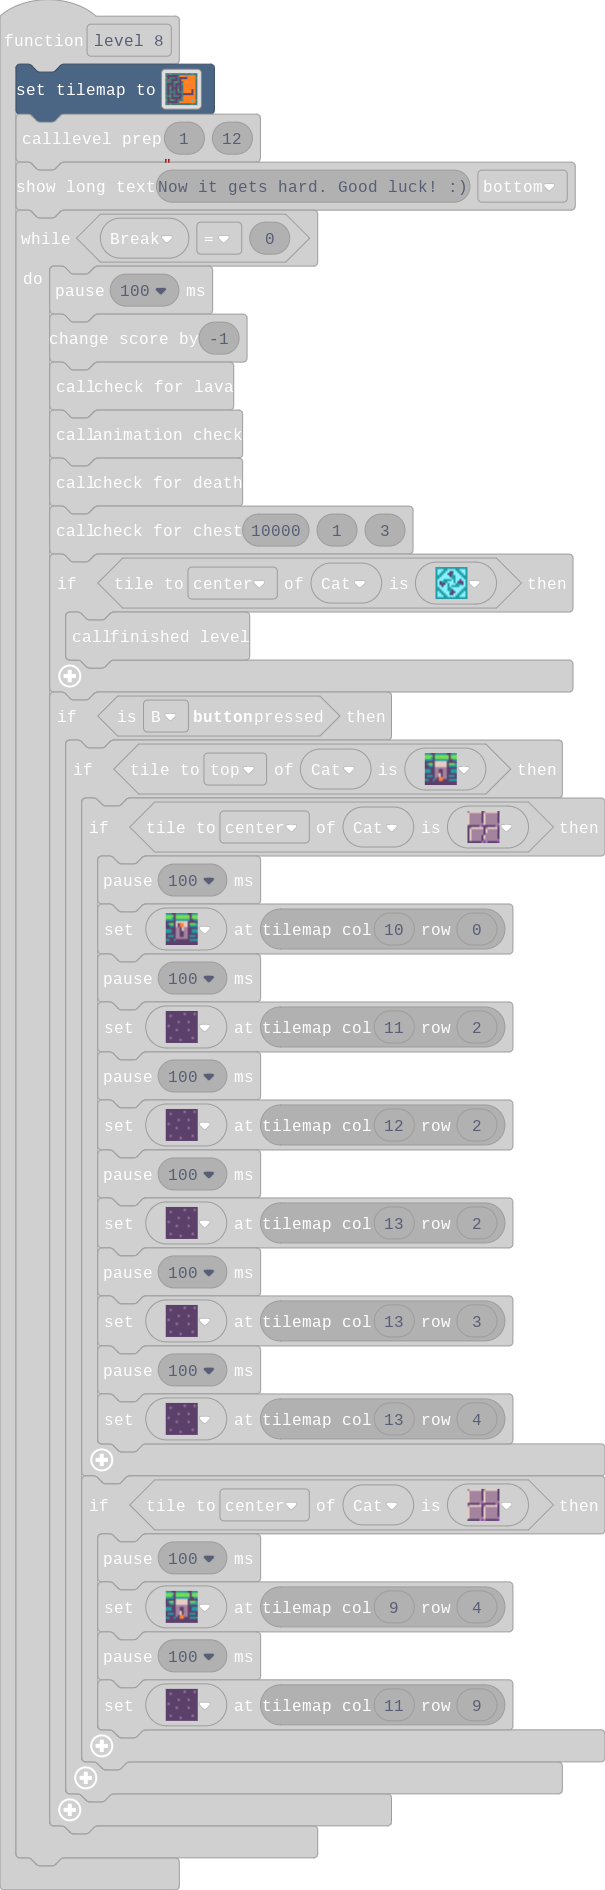
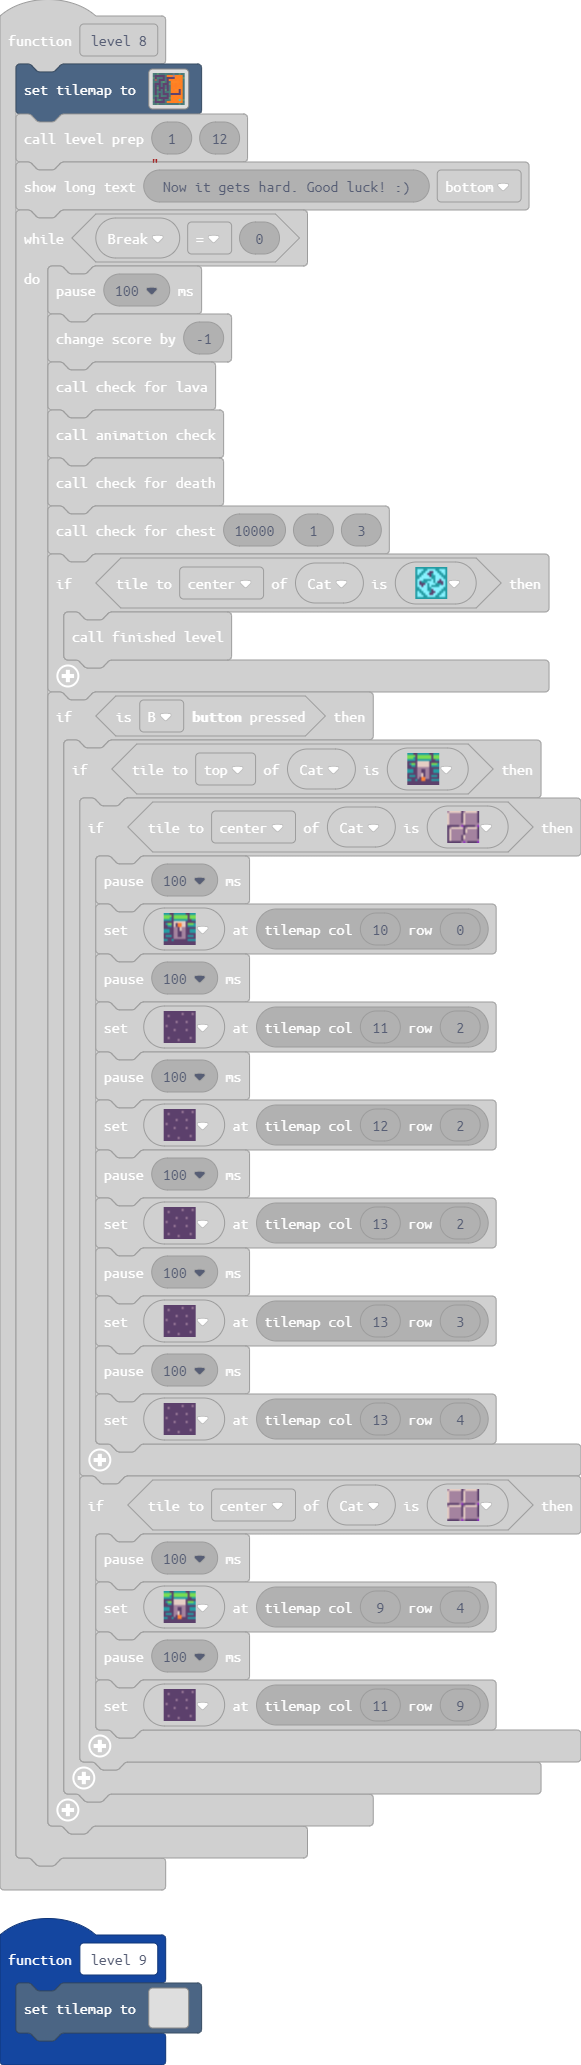
Update main.blocks, main.ts

diff --git a/main.ts b/main.ts
@@ -142,7 +142,7 @@ namespace myTiles {
 }
 function level_8 () {
     tiles.setTilemap(tiles.createTilemap(
[2 lines of base64/hex data omitted]
             img`
 2 2 2 2 2 2 2 2 2 2 2 2 2 2 2 2 
 2 . . . . . 2 . . . . . . . . 2 
@@ -161,7 +161,7 @@ function level_8 () {
 2 . . . . . 2 . . . . . . . . 2 
 2 2 2 2 2 2 2 2 2 2 2 2 2 2 2 2 
 `,
-            [myTiles.tile0,myTiles.tile1,myTiles.tile2,myTiles.tile4,myTiles.tile6,myTiles.tile7,myTiles.tile8,sprites.dungeon.greenOuterNorthWest,sprites.dungeon.greenOuterNorth0,sprites.dungeon.greenOuterNorthEast,sprites.dungeon.greenOuterWest0,sprites.dungeon.greenOuterSouthEast,sprites.dungeon.greenOuterSouth1,sprites.dungeon.greenOuterSouthWest,sprites.dungeon.greenOuterEast0,sprites.dungeon.greenOuterNorth2,sprites.dungeon.greenOuterEast2,sprites.dungeon.greenOuterSouth2,sprites.dungeon.greenOuterWest2,sprites.dungeon.darkGroundCenter,sprites.dungeon.greenInnerSouthWest,sprites.dungeon.greenOuterWest1,sprites.dungeon.hazardLava0,sprites.dungeon.hazardLava1,sprites.dungeon.greenSwitchDown,sprites.dungeon.chestClosed,sprites.dungeon.collectibleInsignia,sprites.dungeon.darkGroundNorth,sprites.dungeon.floorDark4,sprites.dungeon.doorClosedNorth,sprites.dungeon.chestOpen,sprites.dungeon.darkGroundSouth,sprites.dungeon.greenSwitchUp],
+            [myTiles.tile0,myTiles.tile1,myTiles.tile2,myTiles.tile4,myTiles.tile6,myTiles.tile7,myTiles.tile8,sprites.dungeon.greenOuterNorthWest,sprites.dungeon.greenOuterNorth0,sprites.dungeon.greenOuterNorthEast,sprites.dungeon.greenOuterWest0,sprites.dungeon.greenOuterSouthEast,sprites.dungeon.greenOuterSouth1,sprites.dungeon.greenOuterSouthWest,sprites.dungeon.greenOuterEast0,sprites.dungeon.greenOuterNorth2,sprites.dungeon.greenOuterEast2,sprites.dungeon.greenOuterSouth2,sprites.dungeon.greenOuterWest2,sprites.dungeon.darkGroundCenter,sprites.dungeon.greenInnerSouthWest,sprites.dungeon.greenOuterWest1,sprites.dungeon.hazardLava0,sprites.dungeon.hazardLava1,sprites.dungeon.greenSwitchDown,sprites.dungeon.chestClosed,sprites.dungeon.collectibleInsignia,sprites.dungeon.darkGroundNorth,sprites.dungeon.floorDark4,sprites.dungeon.doorClosedNorth,sprites.dungeon.chestOpen,sprites.dungeon.darkGroundSouth,sprites.dungeon.greenSwitchUp,sprites.dungeon.greenOuterNorth1,sprites.dungeon.greenOuterEast1,sprites.dungeon.greenOuterSouth0],
             TileScale.Sixteen
         ))
     level_prep(1, 12)
@@ -362,6 +362,31 @@ function check_for_death () {
     if (Dead == 1) {
         game.over(false)
     }
+}
+function level_9 () {
+    tiles.setTilemap(tiles.createTilemap(
+            hex`1000100000000000000000000000000000000000000000000000000000000000000000000000000000000000000000000000000000000000000000000000000000000000000000000000000000000000000000000000000000000000000000000000000000000000000000000000000000000000000000000000000000000000000000000000000000000000000000000000000000000000000000000000000000000000000000000000000000000000000000000000000000000000000000000000000000000000000000000000000000000000000000000000000000000000000000000000000000000000000000000000000000000000000000000000000000000000`,
+            img`
+. . . . . . . . . . . . . . . . 
+. . . . . . . . . . . . . . . . 
+. . . . . . . . . . . . . . . . 
+. . . . . . . . . . . . . . . . 
+. . . . . . . . . . . . . . . . 
+. . . . . . . . . . . . . . . . 
+. . . . . . . . . . . . . . . . 
+. . . . . . . . . . . . . . . . 
+. . . . . . . . . . . . . . . . 
+. . . . . . . . . . . . . . . . 
+. . . . . . . . . . . . . . . . 
+. . . . . . . . . . . . . . . . 
+. . . . . . . . . . . . . . . . 
+. . . . . . . . . . . . . . . . 
+. . . . . . . . . . . . . . . . 
+. . . . . . . . . . . . . . . . 
+`,
+            [myTiles.tile0,myTiles.tile1,myTiles.tile2,myTiles.tile4,myTiles.tile6,myTiles.tile7,myTiles.tile8,sprites.dungeon.greenOuterNorthWest],
+            TileScale.Sixteen
+        ))
 }
 controller.B.onEvent(ControllerButtonEvent.Released, function () {
     controller.moveSprite(Cat, 100, 100)
